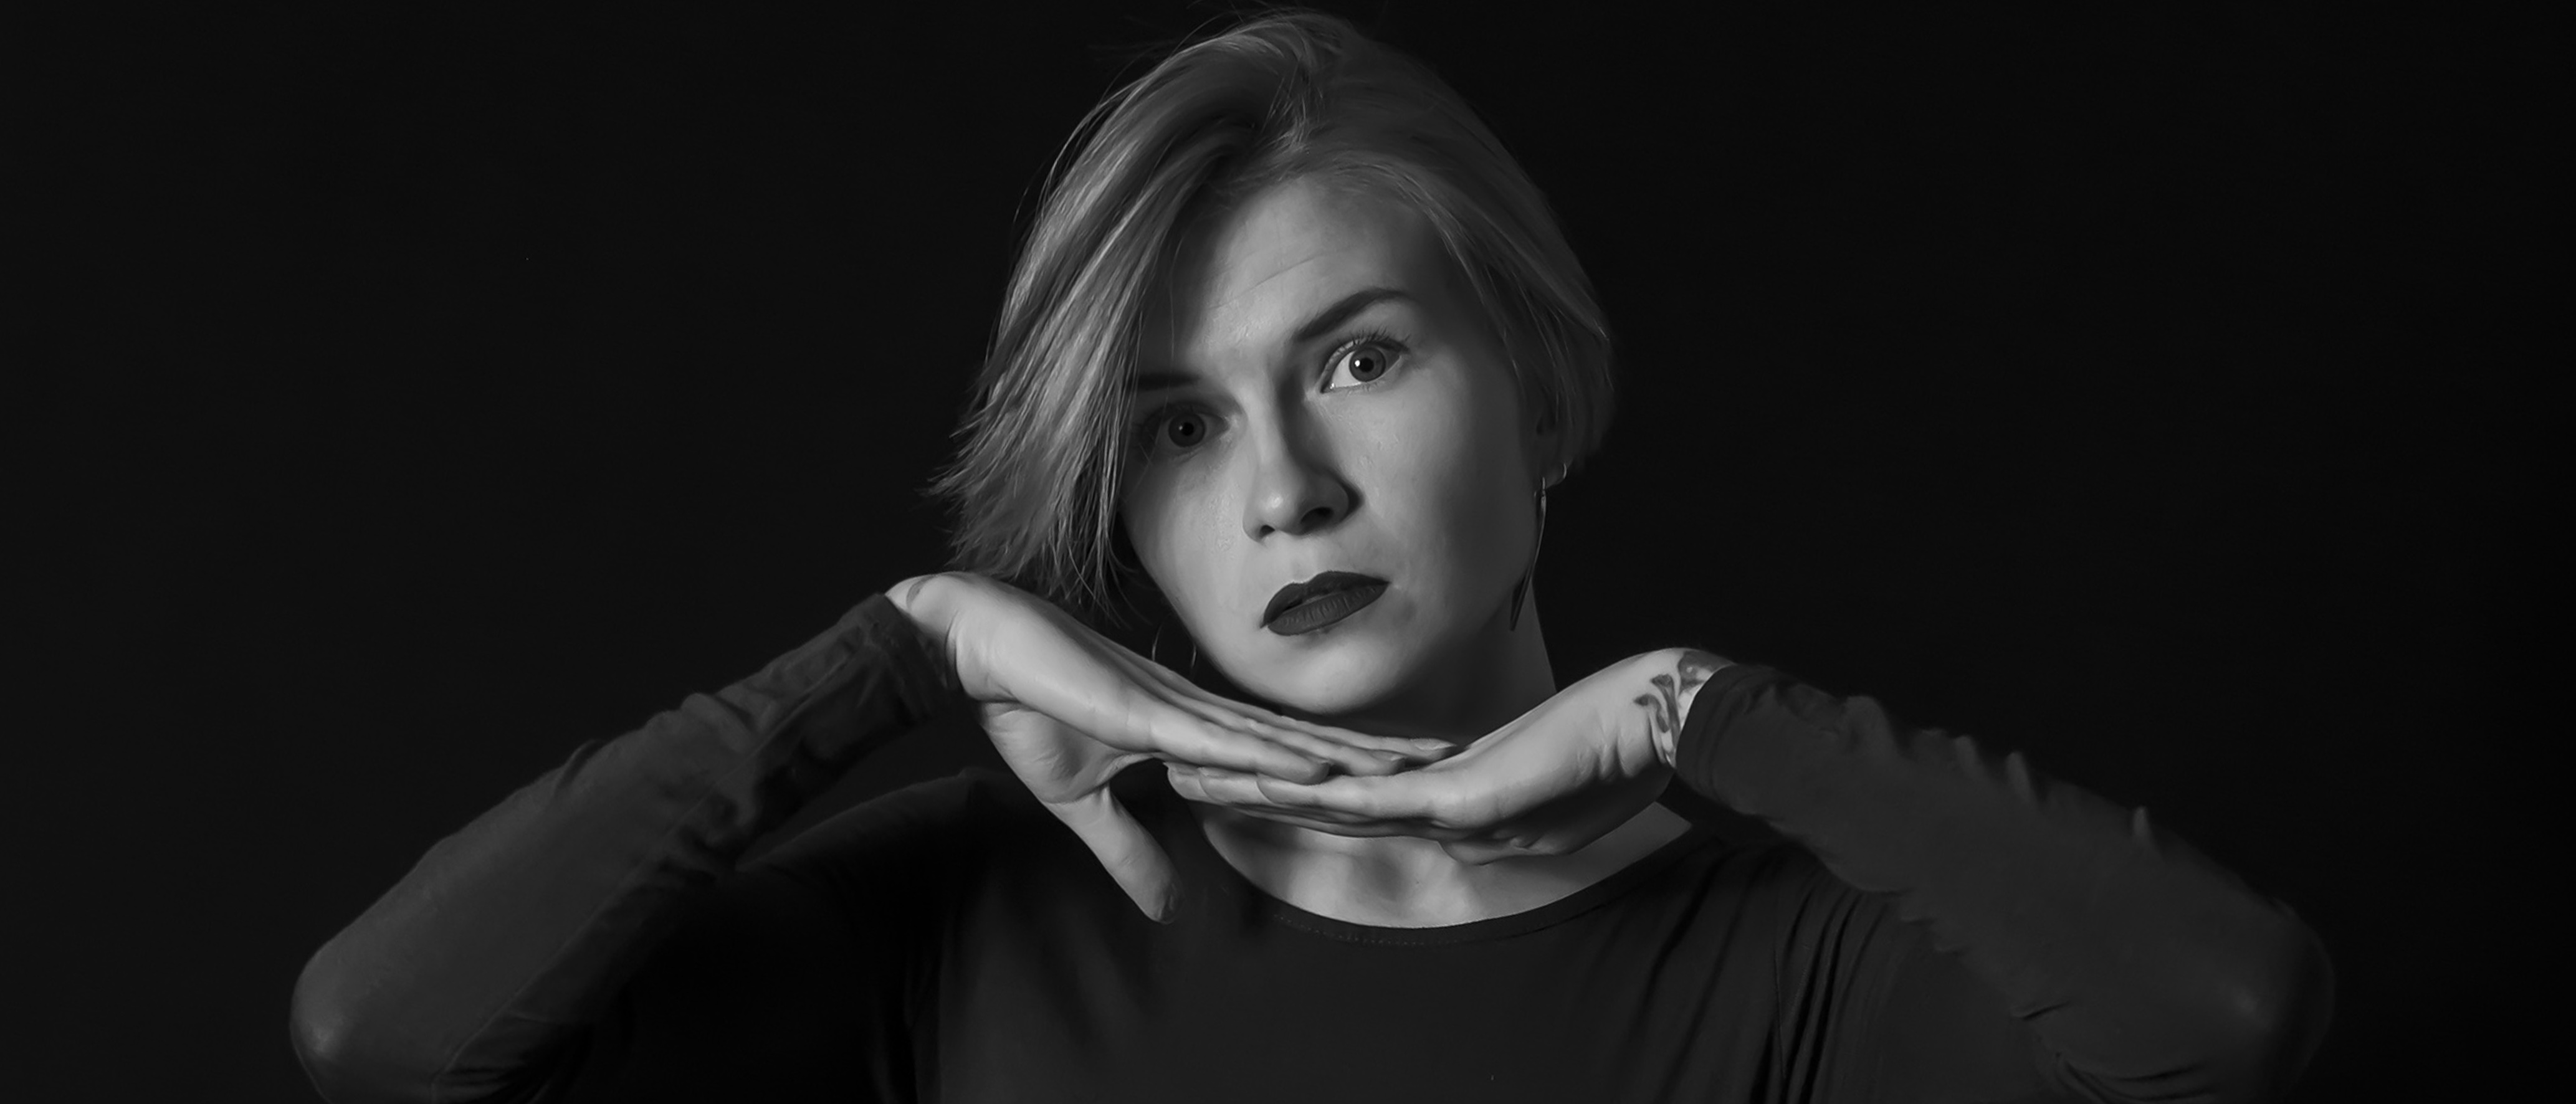
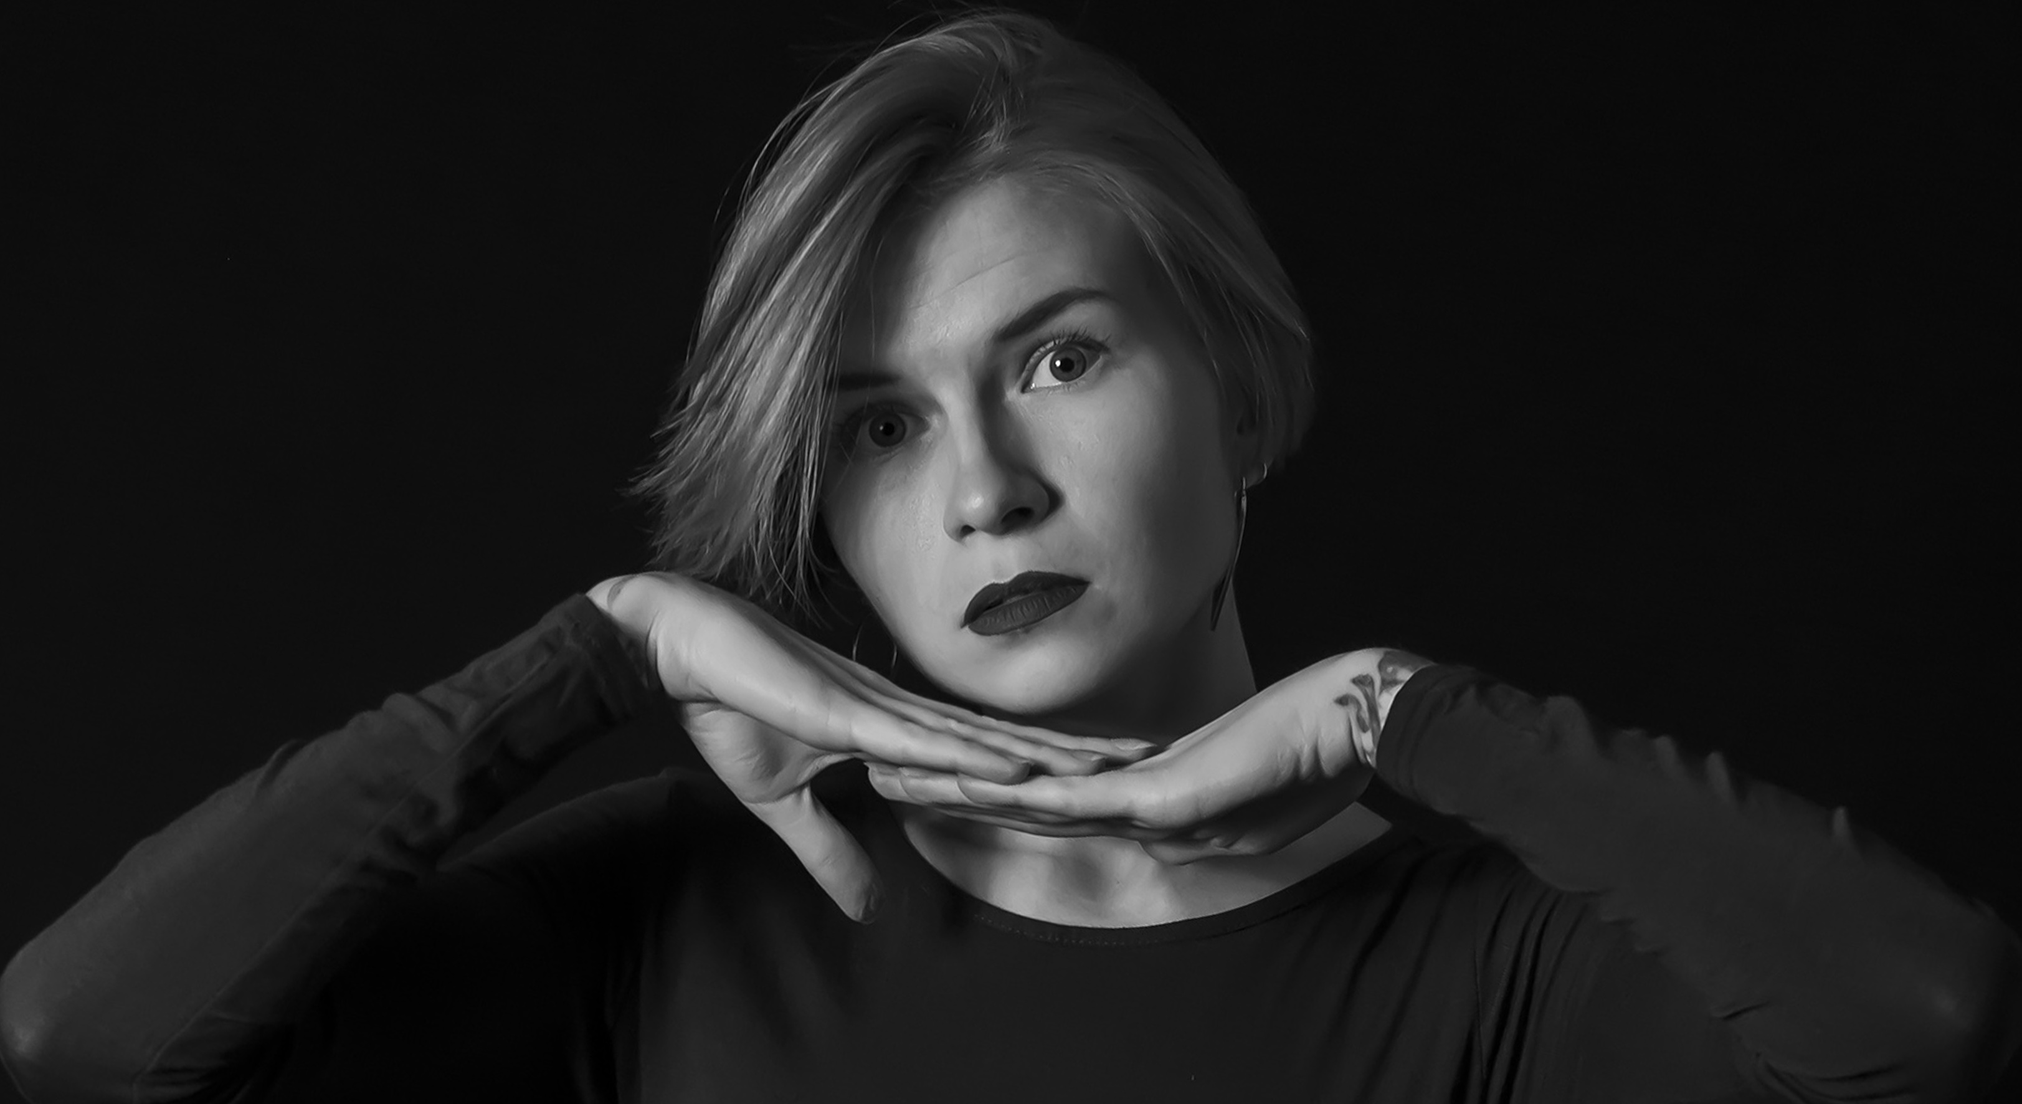
Updates on hero

diff --git a/index.html b/index.html
@@ -7,9 +7,10 @@
     <link rel="preconnect" href="https://fonts.googleapis.com" />
     <link rel="preconnect" href="https://fonts.gstatic.com" crossorigin />
     <link
-      href="https://fonts.googleapis.com/css2?family=EB+Garamond&family=Libre+Baskerville&display=swap"
+      href="https://fonts.googleapis.com/css2?family=Julius+Sans+One&family=Jura&display=swap"
       rel="stylesheet"
     />
+
     <link
       href="https://cdn.jsdelivr.net/npm/bootstrap@5.2.2/dist/css/bootstrap.min.css"
       rel="stylesheet"
@@ -33,11 +34,13 @@
       <img
         src="/images/hero.jpg"
         alt="Hanna Pidhaina b&w photo"
-        class="img-fluid"
+        class="img-fluid w-75 rounded"
       />
-      <h1 class="mt-5">Hanna Pidhaina</h1>
+      <h1>Hanna Pidhaina</h1>
       <h3><i class="fa-solid fa-camera"></i> photo art</h3>
-      <a href="#">Book Photoshoot</a>
+      <div class="btn book-button center-align">
+        <a href="#" title="Book photoshoot">Book Photoshoot</a>
+      </div>
     </div>
   </body>
 </html>

diff --git a/css/style.css b/css/style.css
@@ -1,15 +1,32 @@
-/* font-family: 'EB Garamond', serif;
-font-family: 'Libre Baskerville', serif; */
+/* font-family: 'Julius Sans One', sans-serif;
+font-family: 'Jura', sans-serif; */
 
 h1 {
-    font-family: 'Libre Baskerville', serif;
+  font-family: "Julius Sans One", sans-serif;
+  color: white;
+  font-size: 70px;
 }
 h3 {
-    font-family: 'EB Garamond', serif;
-    font-size: 34px;
+  font-family: "Jura", sans-serif;
+  font-size: 34px;
+  color: white;
 }
 .hero {
-    text-align: center;
-    background: black;
-    padding: 100px 0;
+  width: 100%;
+  background: black;
+  padding: 100px 0;
+  text-align: center;
+}
+.book-button {
+  padding: 15px 20px;
+  background: #36013F;
+  text-align: center;
+  font-size: 20px;
+  margin-top: 20px;
+}
+.book-button a {
+  font-family: "Jura", sans-serif;
+  color: white;
+  text-decoration: none;
+  font-weight: bold;
 }
